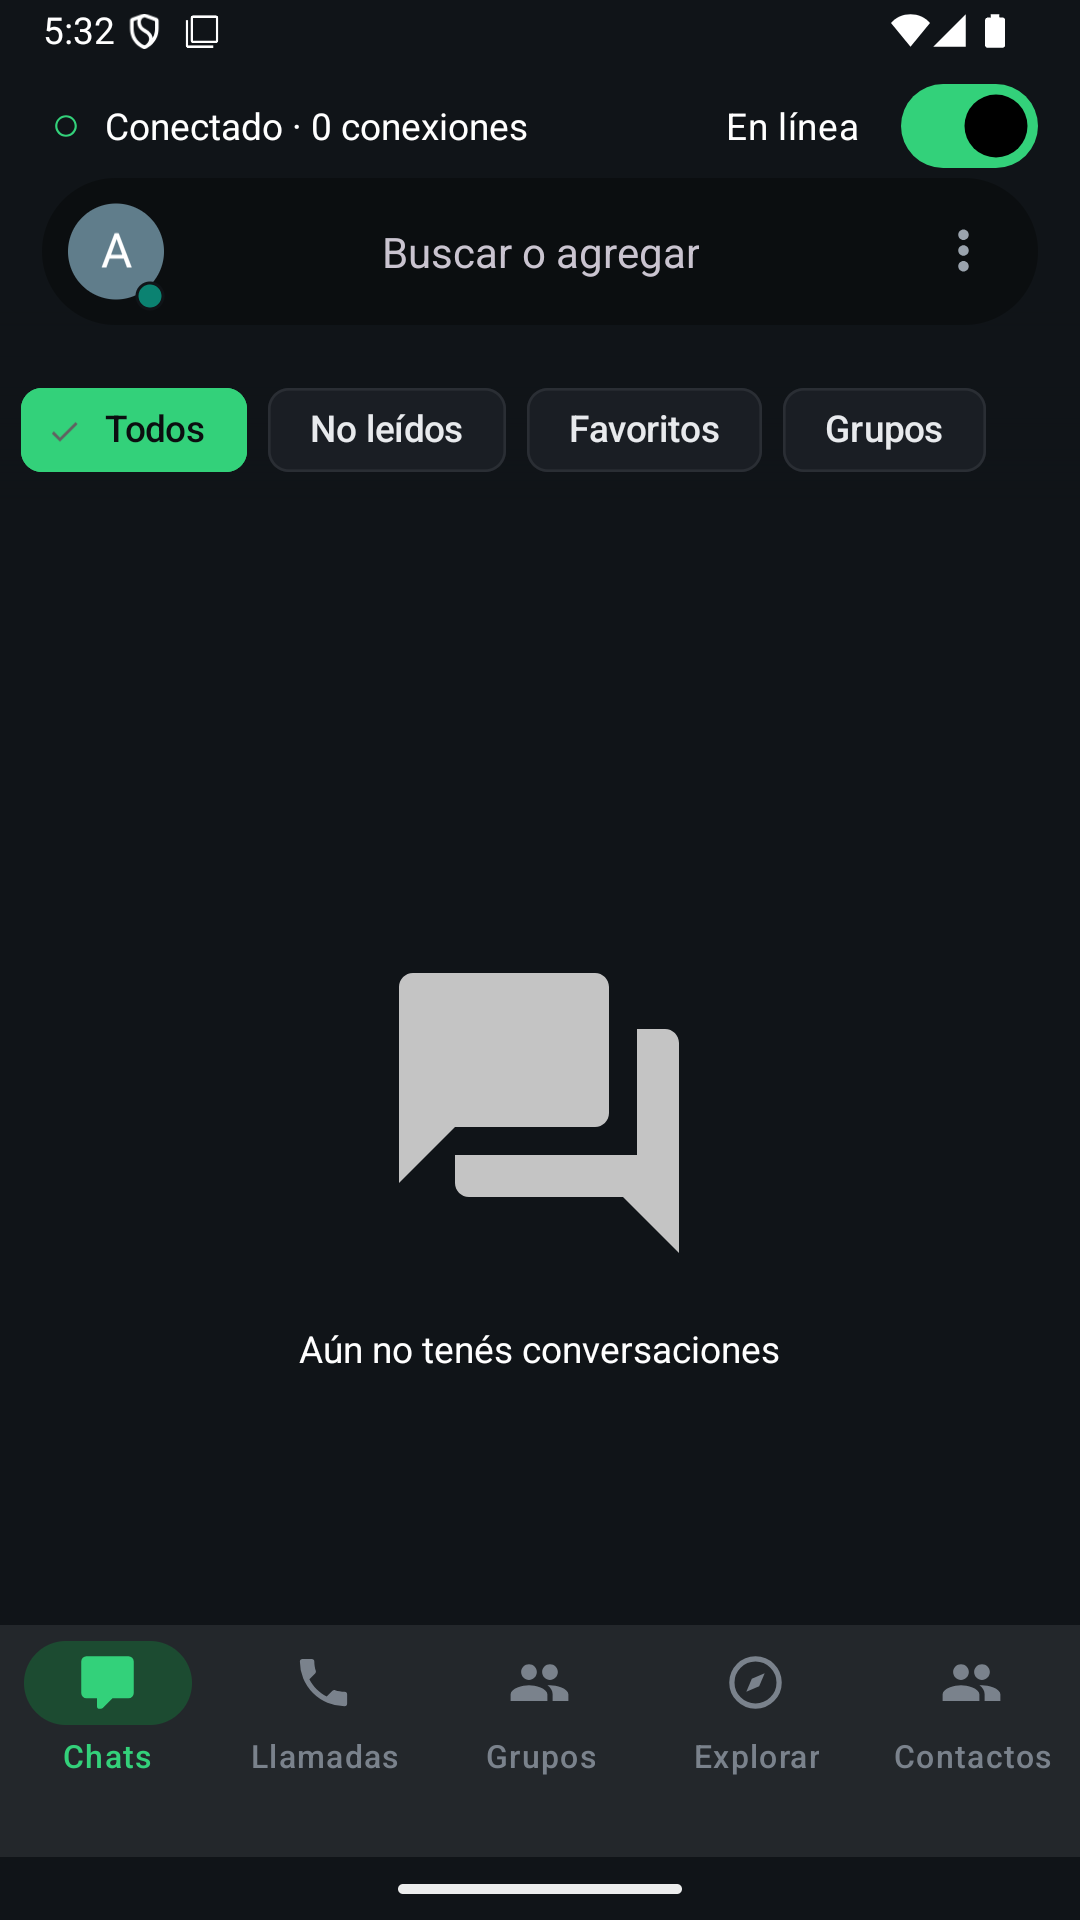
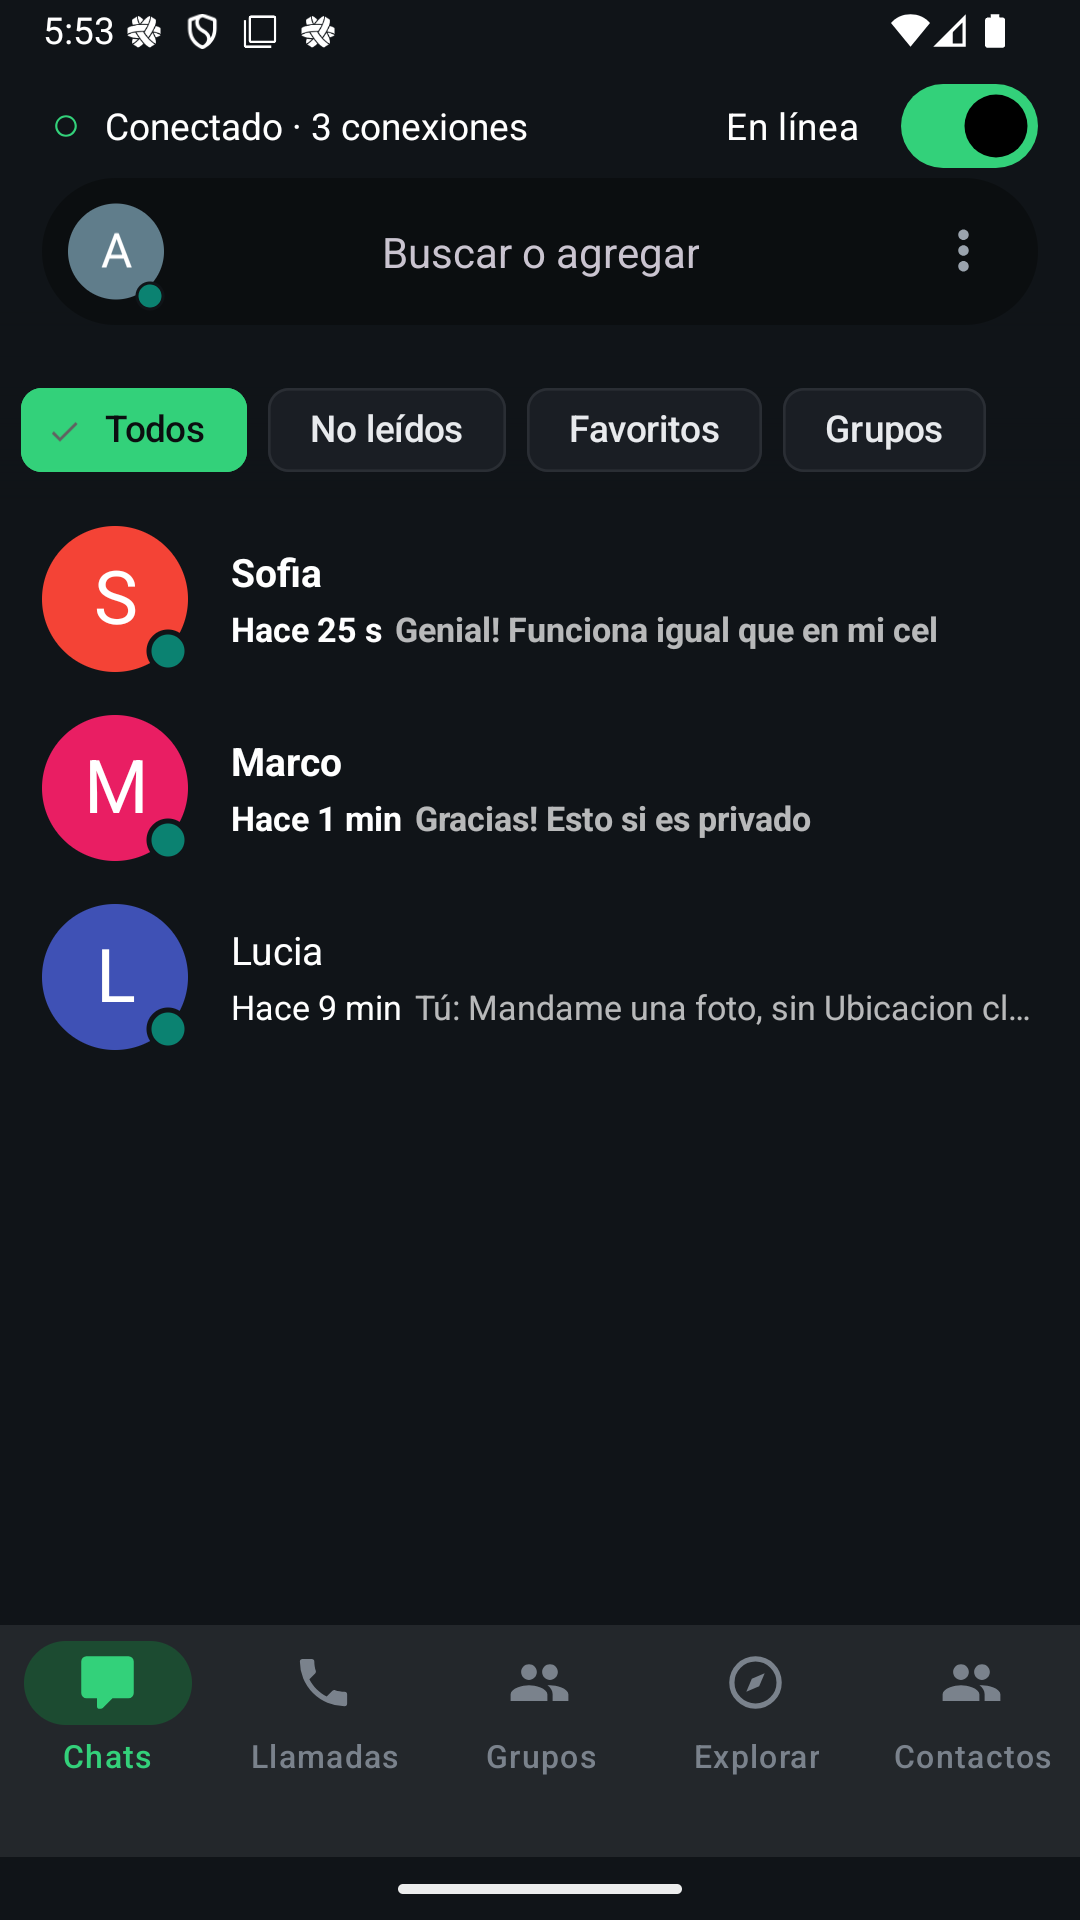
Web: chats de ejemplo en capturas

diff --git a/config.js b/config.js
@@ -13,8 +13,9 @@ window.KASYA = {
     { src: "assets/shots/04-registro-paso2-usuario.png", caption: "3. Nombre de usuario opcional: puedes saltarlo.", alt: "Registro, paso 2: nombre de usuario" },
     { src: "assets/shots/05-registro-paso3-perfil.png", caption: "4. Perfil opcional: nombre y foto, o hazlo después.", alt: "Registro, paso 3: perfil" },
     { src: "assets/shots/06-bloqueo-pin.png", caption: "5. KASYA se abre solo con tu PIN.", alt: "Pantalla de bloqueo con PIN" },
-    { src: "assets/shots/08-chats.png", caption: "6. Tus chats, con filtros y acceso rápido.", alt: "Pantalla de chats" },
-    { src: "assets/shots/09-explorar.png", caption: "7. Explorar: estados, canales y tiendas.", alt: "Pantalla Explorar" },
-    { src: "assets/shots/16-manual.png", caption: "8. Manual de usuario dentro de la app (desde la versión 1.0.1).", alt: "Manual de usuario en la app" }
+    { src: "assets/shots/08-chats.png", caption: "6. Tus chats (conversaciones de ejemplo, con cuentas de prueba).", alt: "Pantalla de chats" },
+    { src: "assets/shots/08b-conversacion.png", caption: "7. Una conversación: cifrada de extremo a extremo (cuentas de prueba).", alt: "Conversación en KASYA" },
+    { src: "assets/shots/09-explorar.png", caption: "8. Explorar: estados, canales y tiendas.", alt: "Pantalla Explorar" },
+    { src: "assets/shots/16-manual.png", caption: "9. Manual de usuario dentro de la app (desde la versión 1.0.1).", alt: "Manual de usuario en la app" }
   ]
 };

diff --git a/index.html b/index.html
@@ -107,7 +107,7 @@
     <div class="wrap">
       <p class="eyebrow">La app por dentro</p>
       <h2>Así se ve KASYA</h2>
-      <p class="lead narrow">Capturas reales de la app, tomadas en un emulador Android, sin datos personales.</p>
+      <p class="lead narrow">Capturas reales de la app, tomadas en un emulador Android. Los chats son de ejemplo, entre cuentas de prueba con nombres ficticios.</p>
       <div class="shots" id="shots"></div>
     </div>
   </section>
